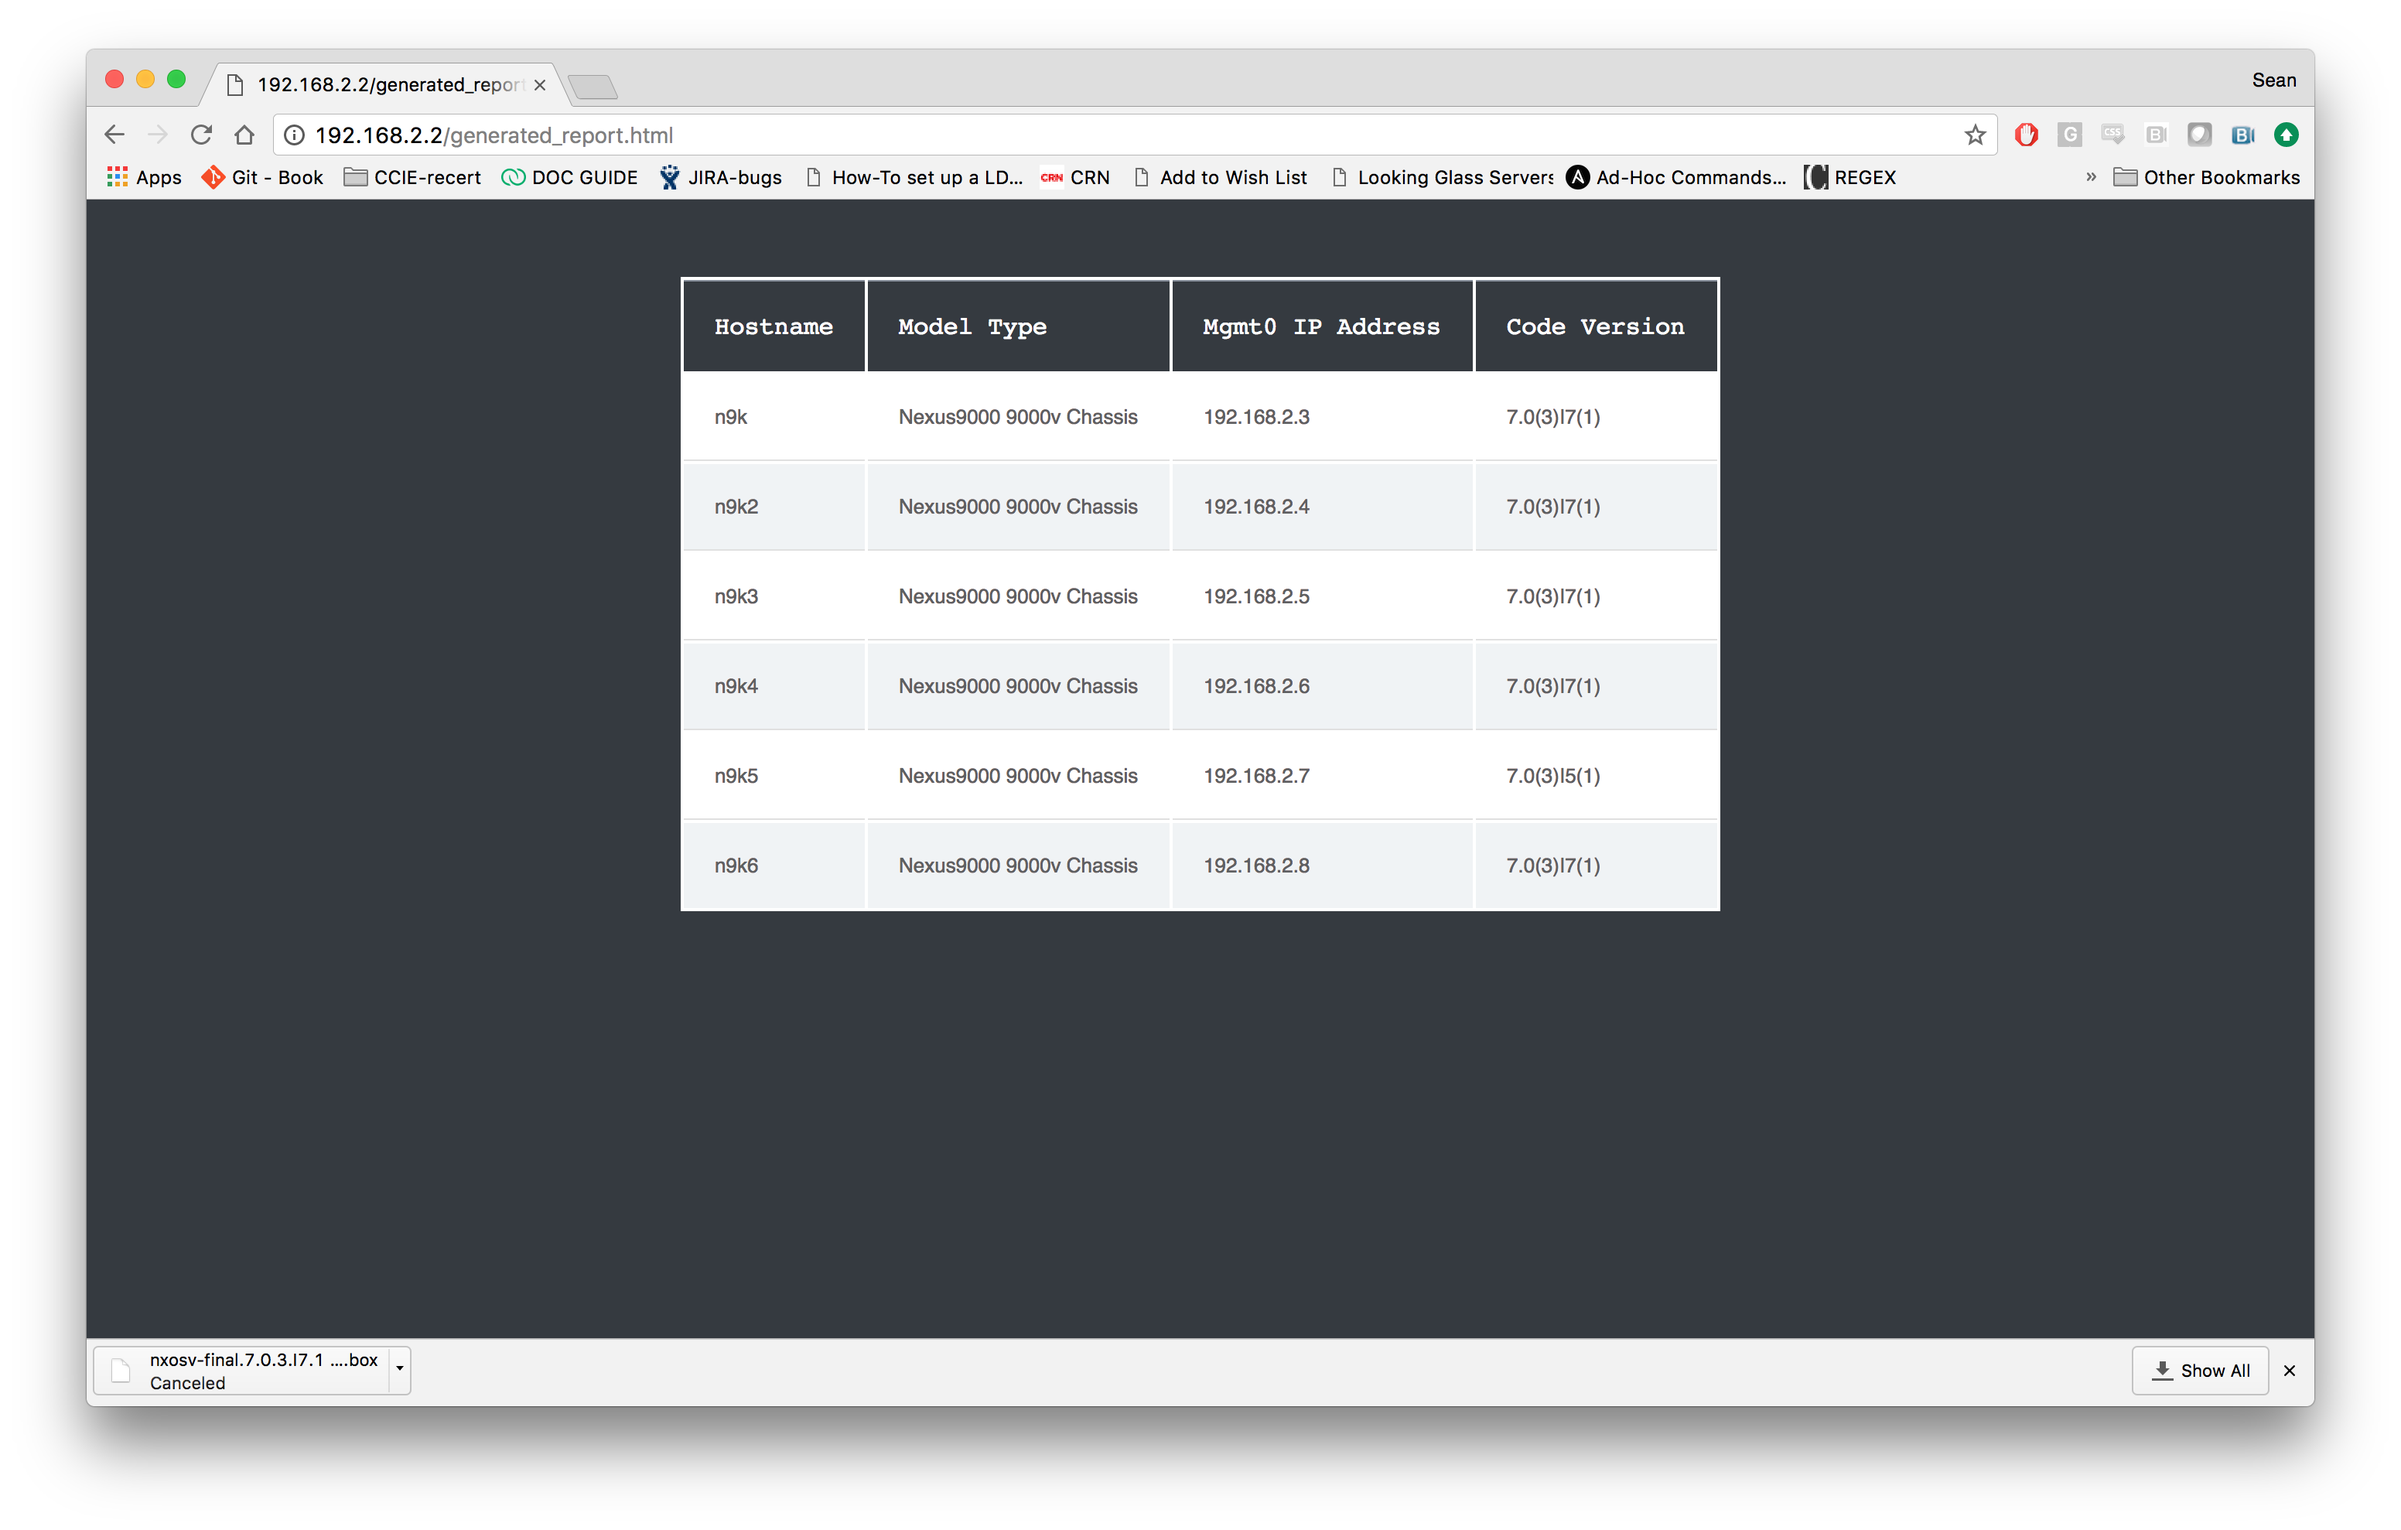
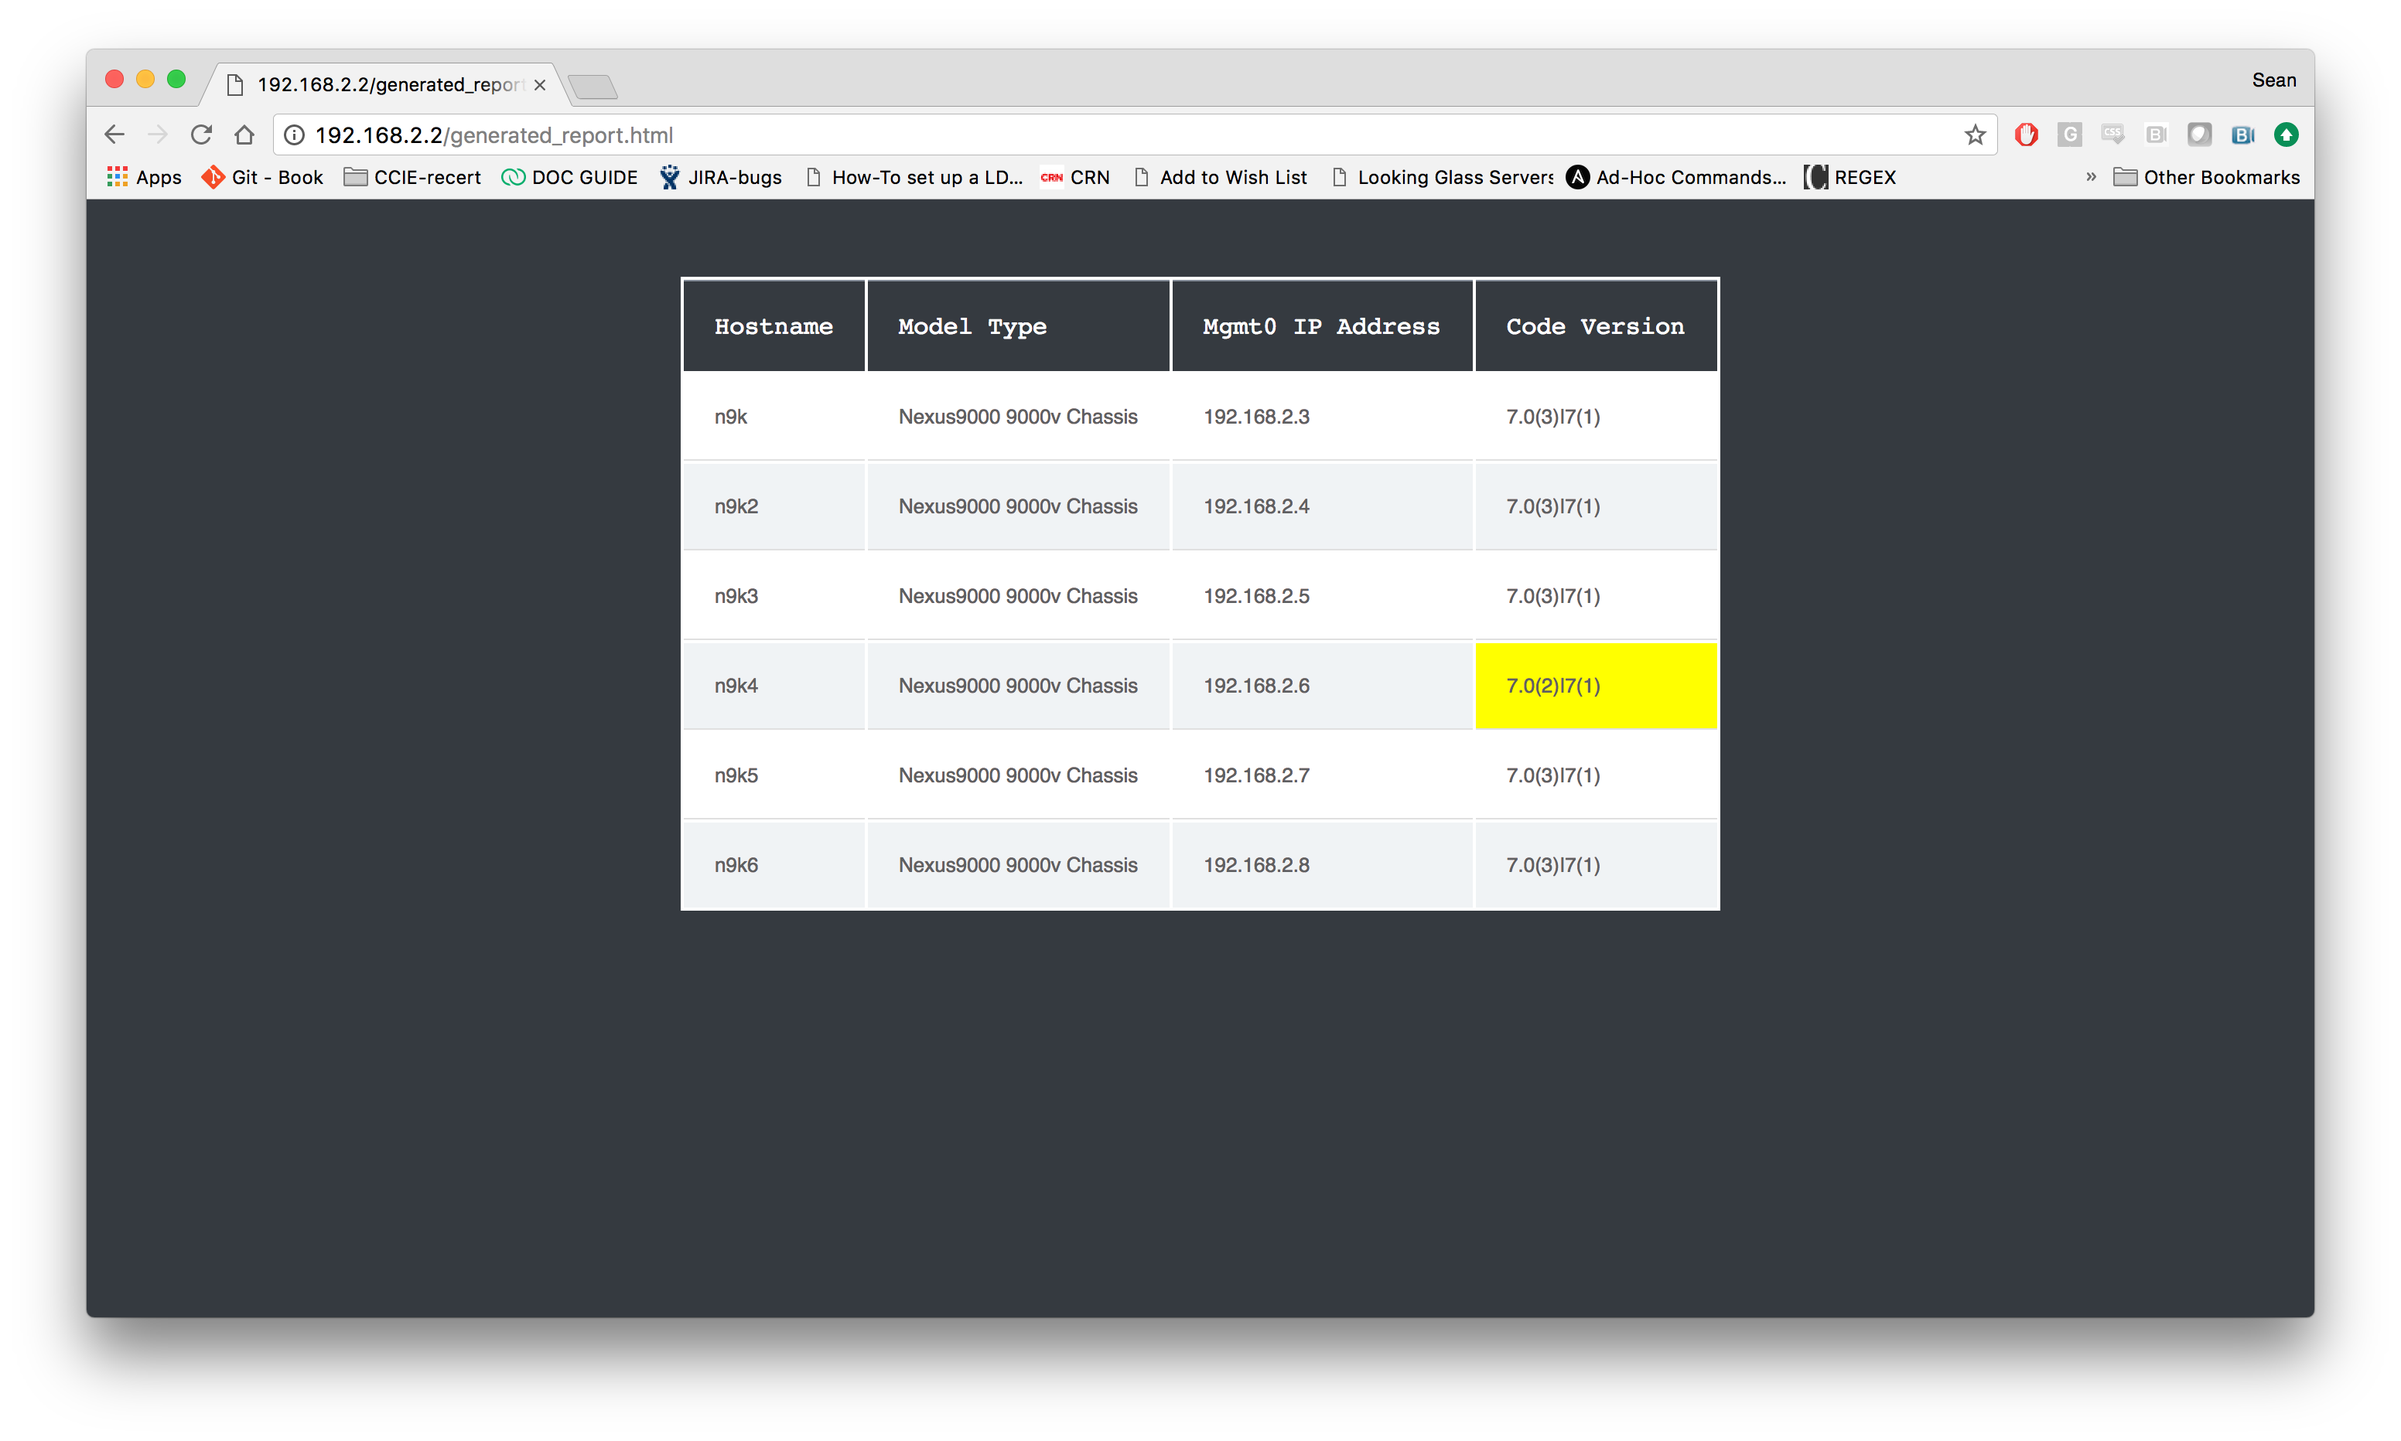
cleaning up image with new highlight feature

diff --git a/README.md b/README.md
@@ -10,6 +10,8 @@ Only two modules are needed for this example.  The [nxos_facts module](http://do
 - hosts: cisco
   connection: local
   gather_facts: False
+  vars:
+    desired_version: "7.0(3)I7(1)"
   tasks:
     - name: gathering nxos facts
       nxos_facts:
